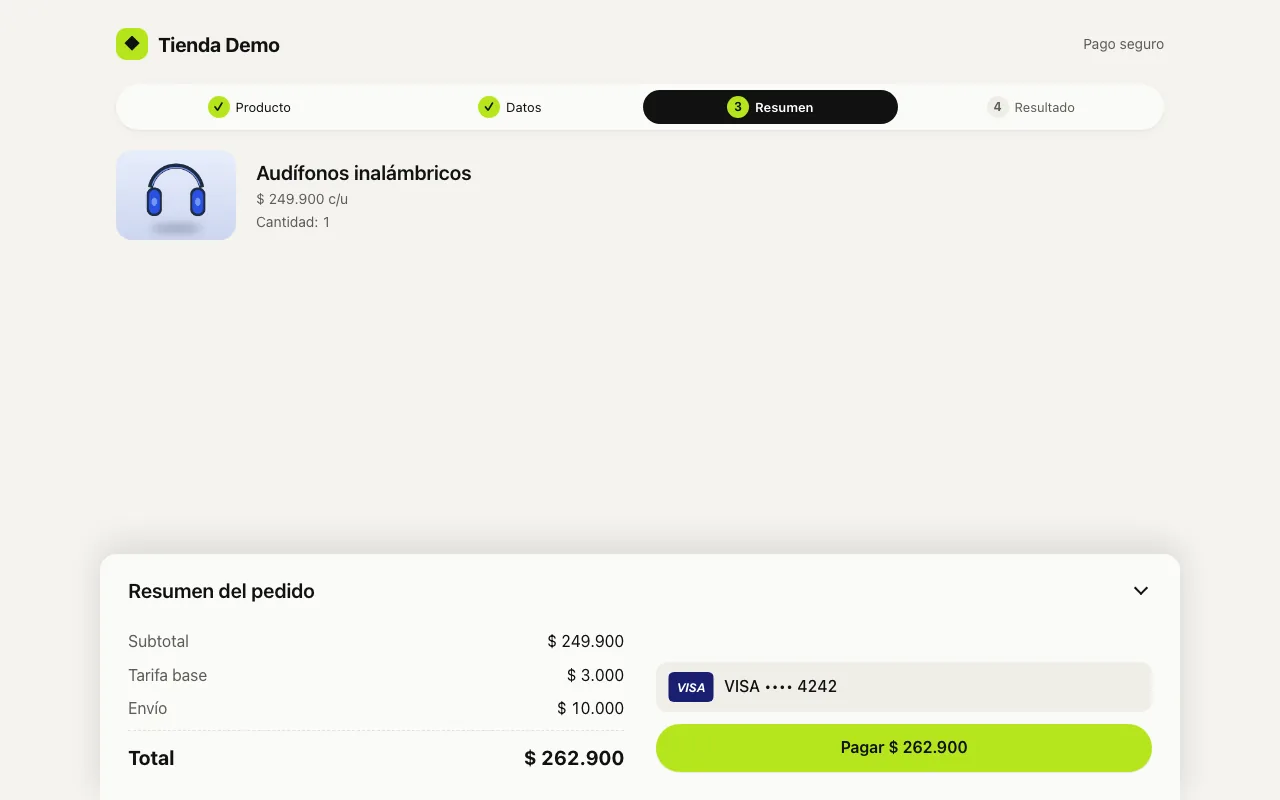
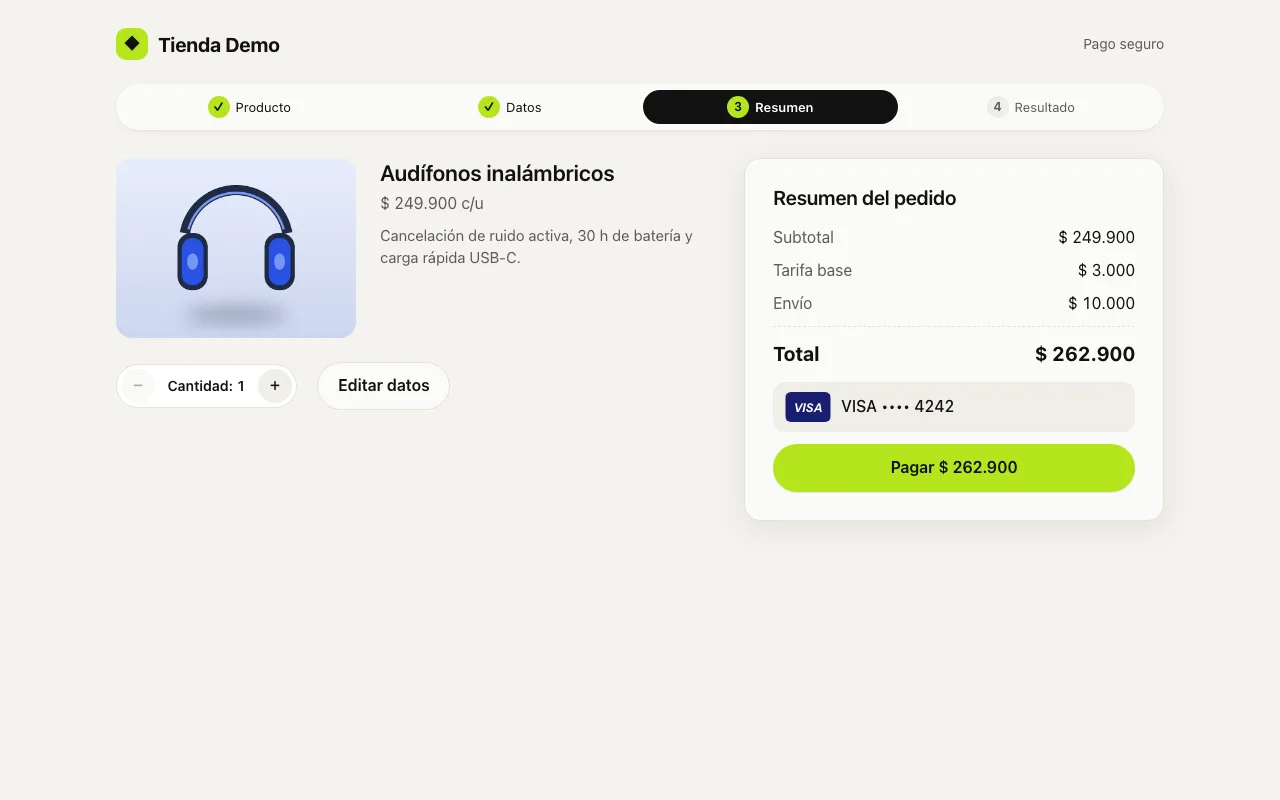
docs(readme): summary in two fixed layers, clearing after purchase, new screenshots, dashboard and 114/114 trace

diff --git a/README.md b/README.md
@@ -40,32 +40,33 @@ Interfaz mobile-first (desde iPhone SE 375×667) para una tienda de demostració
 
 - **Producto**: tarjetas de igual altura con badge de stock ("Quedan N", ámbar con 5 o menos, "Agotado" con el botón deshabilitado) y el botón **Pay with credit card** alineado abajo.
 - **Tarjeta y entrega**: modal con bloques "Tarjeta" y "Entrega", logo VISA/MasterCard dentro del input, errores bajo cada campo y **Continuar** fijo abajo con scroll interno.
-- **Resumen**: componente [Backdrop de Material](https://m2.material.io/components/backdrop) ([spec 009](specs/009-backdrop-resumen/spec.md)), igual en móvil y desktop. La **capa trasera** tiene el producto, el selector − n + y **Editar datos**. La **capa delantera** va anclada abajo, ocupa todo el ancho del contenedor, tiene esquinas superiores de 16 px y el subencabezado «Resumen del pedido», con el desglose, la tarjeta enmascarada y **Pagar**. El subencabezado (o su chevron) cambia la capa activa: con la trasera activa, la delantera muestra solo el subencabezado y el total, con un scrim suave. **Esc** vuelve a la delantera. En desktop no hay diálogo centrado: el mismo patrón vive en el contenedor de 1080 px y la delantera usa dos columnas.
+- **Resumen**: dos capas fijas inspiradas en el [Backdrop de Material](https://m2.material.io/components/backdrop) ([spec 009](specs/009-backdrop-resumen/spec.md), [ADR 0006](docs/adr/0006-resumen-dos-capas-fijas.md)). La **capa trasera** tiene el producto, el selector − n + y **Editar datos**. La **capa delantera** tiene el subencabezado «Resumen del pedido», el desglose, la tarjeta enmascarada y **Pagar**. Las dos se ven siempre: no hay toggle para colapsar ni scrim. En móvil, la trasera es compacta y va arriba, y la delantera es una hoja anclada abajo con esquinas superiores de 16 px. En desktop son dos columnas en el contenedor de 1080 px.
+- **Tras la compra** ([spec 011](specs/011-limpieza-tras-compra/spec.md)): si el pago se aprueba, al volver a la tienda se borran del estado y de `localStorage` los datos de entrega y todo el progreso del checkout. Si se rechaza, la entrega se conserva para **Intentar de nuevo**.
 - **Resultado**: tarjeta centrada con ícono de estado, referencia en una línea (monoespaciada, truncada al medio, con botón de copiar), total y tarjeta enmascarada.
 - **Vuelta a la tienda**: la tarjeta cuyo stock cambió se resalta y se anuncia a lectores de pantalla.
 - **Accesibilidad**: contraste WCAG AA en todo el texto (mínimo 5,1:1), `focus-visible` en todos los controles, roles y `aria-*` en modales, errores y estados (`aria-expanded`/`aria-controls` en el backdrop, con el foco siguiendo a la capa activa), transiciones de 150–220 ms que respetan `prefers-reduced-motion`. Sin fuentes ni recursos externos (la CSP de CloudFront solo permite `'self'`).
 
-Verificado con Playwright a 375×667 y 1280×800 (los E2E corren en Chromium, Firefox y WebKit): sin desbordamiento horizontal ni errores de consola, y **Pagar** visible sin scroll a 375×667. Las capturas son de la versión v1.1.0, con la API simulada.
+Verificado con Playwright a 375×667 y 1280×800 (los E2E corren en Chromium, Firefox y WebKit): sin desbordamiento horizontal ni errores de consola, y **Pagar** visible sin scroll a 375×667. Las capturas son con la API simulada: las del resumen, de v1.3.0; el resto, de v1.1.0 (esas pantallas no cambiaron).
 
 ### Móvil (375×667)
 
-| 1. Producto | 2. Tarjeta y entrega | 3. Resumen (capa delantera) | 4. Resultado | 5. Stock actualizado |
+| 1. Producto | 2. Tarjeta y entrega | 3. Resumen | 4. Resultado | 5. Stock actualizado |
 |---|---|---|---|---|
-| <img src="docs/screenshots/movil-1-producto.webp" width="170" alt="Pantalla de producto en móvil"> | <img src="docs/screenshots/movil-2-datos.webp" width="170" alt="Modal de tarjeta y entrega en móvil"> | <img src="docs/screenshots/movil-3-resumen.webp" width="170" alt="Resumen con la capa delantera activa: desglose, tarjeta enmascarada y Pagar anclados abajo"> | <img src="docs/screenshots/movil-4-aprobado.webp" width="170" alt="Pago aprobado en móvil"> | <img src="docs/screenshots/movil-5-stock-actualizado.webp" width="170" alt="Producto con el stock actualizado y resaltado en móvil"> |
+| <img src="docs/screenshots/movil-1-producto.webp" width="170" alt="Pantalla de producto en móvil"> | <img src="docs/screenshots/movil-2-datos.webp" width="170" alt="Modal de tarjeta y entrega en móvil"> | <img src="docs/screenshots/movil-3-resumen.webp" width="170" alt="Resumen en móvil: arriba el producto, la cantidad y Editar datos; abajo la hoja con el desglose, la tarjeta enmascarada y Pagar"> | <img src="docs/screenshots/movil-4-aprobado.webp" width="170" alt="Pago aprobado en móvil"> | <img src="docs/screenshots/movil-5-stock-actualizado.webp" width="170" alt="Producto con el stock actualizado y resaltado en móvil"> |
 
-| 3. Resumen (capa trasera) | Pago rechazado |
-|---|---|
-| <img src="docs/screenshots/movil-3-resumen-trasera.webp" width="170" alt="Resumen con la capa trasera activa: cantidad y Editar datos; la delantera abajo con scrim y total"> | <img src="docs/screenshots/movil-4-rechazado.webp" width="170" alt="Pago rechazado en móvil"> |
+| Pago rechazado |
+|---|
+| <img src="docs/screenshots/movil-4-rechazado.webp" width="170" alt="Pago rechazado en móvil"> |
 
 ### Desktop (1280×800)
 
 | Producto | Tarjeta y entrega |
 |---|---|
 | <img src="docs/screenshots/desktop-1-producto.webp" alt="Pantalla de producto en desktop"> | <img src="docs/screenshots/desktop-2-datos.webp" alt="Modal de tarjeta y entrega en desktop"> |
-| **Resumen: capa delantera** | **Resumen: capa trasera** |
-| <img src="docs/screenshots/desktop-3-resumen.webp" alt="Backdrop en desktop con la capa delantera activa en el contenedor centrado"> | <img src="docs/screenshots/desktop-3-resumen-trasera.webp" alt="Backdrop en desktop con la capa trasera activa"> |
-| **Resultado** | **Stock actualizado** |
-| <img src="docs/screenshots/desktop-4-aprobado.webp" alt="Pago aprobado en desktop"> | <img src="docs/screenshots/desktop-5-stock-actualizado.webp" alt="Producto con el stock actualizado en desktop"> |
+| **Resumen** | **Resultado** |
+| <img src="docs/screenshots/desktop-3-resumen.webp" alt="Resumen en desktop en dos columnas: producto, cantidad y Editar datos a la izquierda; desglose, tarjeta y Pagar a la derecha"> | <img src="docs/screenshots/desktop-4-aprobado.webp" alt="Pago aprobado en desktop"> |
+| **Stock actualizado** | |
+| <img src="docs/screenshots/desktop-5-stock-actualizado.webp" alt="Producto con el stock actualizado en desktop"> | |
 
 ## Arquitectura
 
@@ -336,8 +337,8 @@ Jest en los dos paquetes, con umbral **≥ 80 %** en sentencias, ramas, funcione
 
 | Paquete | Tests | Sentencias | Ramas | Funciones | Líneas |
 |---|---|---|---|---|---|
-| Backend (`backend/`) | 258 tests · 45 suites | **99.87 %** (784/785) | **92.34 %** (362/392) | **99.37 %** (158/159) | **100 %** (681/681) |
-| Frontend (`frontend/`) | 209 tests · 35 suites | **99.56 %** (683/686) | **95.04 %** (326/343) | **99.42 %** (173/174) | **100 %** (579/579) |
+| Backend (`backend/`) | 267 tests · 46 suites | **99.87 %** (791/792) | **92.46 %** (368/398) | **99.38 %** (161/162) | **100 %** (686/686) |
+| Frontend (`frontend/`) | 214 tests · 36 suites | **99.55 %** (665/668) | **94.87 %** (315/332) | **99.4 %** (167/168) | **100 %** (567/567) |
 
 ```bash
 cd backend && npm run test:cov
@@ -356,9 +357,12 @@ El flujo completo se prueba en **Chromium, Firefox y WebKit** (el motor de Safar
 | Tarjeta rechazada `4111…` | «Pago rechazado» con el motivo; el stock no cambia |
 | Recarga en el resumen | vuelve al formulario con la entrega conservada y la tarjeta vacía; se reingresa y se paga |
 | Recarga durante el pago | recupera el pago por su `Idempotency-Key`, sin un segundo `POST /transactions` |
-| Backdrop a 375×667 y 1280×800 | delantera anclada abajo a todo el ancho del contenedor, esquinas de 16 px, **Pagar** visible sin scroll, sin diálogo |
-| Cambio de capa | el subencabezado alterna las capas (`aria-expanded`, foco); **Esc** y el scrim suben la delantera; la cantidad recotiza el total |
+| Resumen a 375×667 | trasera compacta arriba; delantera anclada abajo a todo el ancho, esquinas de 16 px; **Pagar** y **Editar datos** visibles sin scroll |
+| Resumen a 1280×800 | dos columnas alineadas arriba en el contenedor centrado, sin diálogo ni hueco, sin scroll |
+| Capas fijas | sin toggle, `aria-expanded` ni scrim; foco al subencabezado; Tab recorre trasera → **Pagar**; la cantidad recotiza a la vista |
 | `prefers-reduced-motion` | las capas no se animan |
+| Tras una compra aprobada | `localStorage` sin entrega, tarjeta ni transacción; la siguiente compra empieza vacía, también tras recargar |
+| Tras un rechazo | **Intentar de nuevo** y **Volver a la tienda** conservan la entrega; la tarjeta se vuelve a pedir |
 
 En todos: sin desbordamiento horizontal, sin errores en la consola y sin el número de tarjeta ni el CVC en `localStorage`.
 
@@ -367,7 +371,7 @@ En todos: sin desbordamiento horizontal, sin errores en la consola y sin el núm
 ```bash
 npm install --prefix frontend      # instala @playwright/test con el resto de dependencias
 npm run e2e:install                # descarga Chromium, Firefox y WebKit (unos cientos de MB, una sola vez; en Linux instala también las librerías del sistema)
-npm run e2e                        # 9 tests × 3 navegadores, sin ventana (~20 s); construye y levanta el front solo
+npm run e2e                        # 12 tests × 3 navegadores, sin ventana (~20 s); construye y levanta el front solo
 npm run e2e:headed                 # solo Chromium, con ventana y 500 ms entre acciones para verlo en vivo
 E2E_SLOWMO=1000 npm run e2e:headed # más lento todavía
 npm run e2e:ui                     # modo UI de Playwright: elegir tests, ver cada paso, el DOM y la red
@@ -381,7 +385,7 @@ En la CI, el job **`e2e`** corre en paralelo con `verify` en cada PR y push a `d
 
 > Los E2E encontraron un bug que los tests de Jest no veían: Firefox y Safari cortan el `fetch` en vuelo al recargar, el pago se guardaba como fallido y, al volver, la app pedía la tarjeta en vez de recuperar el pago. Ahora también se busca por `Idempotency-Key` en ese caso (AC-005-05).
 
-### Trazabilidad: 105/105 criterios con test
+### Trazabilidad: 114/114 criterios con test
 
 Cada criterio de aceptación `AC-NNN-YY` de `specs/*/spec.md` tiene al menos un test con ese ID en el nombre (`it('AC-004-12 …')`). [`scripts/trace.ts`](scripts/trace.ts) arma la matriz y falla si falta alguno; la CI la corre con `--shipped`.
 
@@ -395,9 +399,10 @@ Cada criterio de aceptación `AC-NNN-YY` de `specs/*/spec.md` tiene al menos un 
 | [006 · despliegue](specs/006-despliegue/spec.md) | Lambda + HTTP API, S3 + CloudFront (OAC), HTTPS, headers, CORS | 10 | ✅ 10 |
 | [007 · E2E con Playwright](specs/007-e2e-playwright/spec.md) | flujo completo en Chromium, Firefox y WebKit con la API simulada, job `e2e` en la CI | 6 | ✅ 6 |
 | [008 · headers de seguridad](specs/008-headers-seguridad/spec.md) | COOP, CORP y Permissions-Policy en CloudFront tras el HTTP Observatory | 3 | ✅ 3 |
-| [009 · backdrop del resumen](specs/009-backdrop-resumen/spec.md) | paso Resumen con el patrón Backdrop de Material, accesibilidad y reduced motion | 5 | ✅ 5 |
+| [009 · resumen en dos capas](specs/009-backdrop-resumen/spec.md) | paso Resumen en dos capas fijas (móvil y desktop), accesibilidad y reduced motion | 6 | ✅ 6 |
 | [010 · observabilidad](specs/010-observabilidad/spec.md) | logs JSON con requestId, evento `payment.finalized`, dashboard, alarmas y X-Ray | 14 | ✅ 14 |
-| **Total** | | **105** | **✅ 105/105** |
+| [011 · limpieza tras la compra](specs/011-limpieza-tras-compra/spec.md) | borrar entrega y progreso tras APPROVED; conservar la entrega tras DECLINED/ERROR | 5 | ✅ 5 |
+| **Total** | | **114** | **✅ 114/114** |
 
 ```bash
 npx tsx scripts/trace.ts             # matriz completa (todas las specs)
@@ -462,9 +467,12 @@ npx tsx scripts/trace.ts --spec 004  # una spec
 | AC-004-20 | frontend/src/features/payment/paymentSlice.test.ts | ✅ |
 | AC-004-21 | backend/src/application/transactions/create-transaction.use-case.spec.ts<br>backend/src/infrastructure/prisma/prisma-transaction.repository.spec.ts | ✅ |
 | AC-005-01 | frontend/src/app/resumeAfterReload.test.tsx | ✅ |
+| AC-005-01 | frontend/src/app/resumeAfterReload.test.tsx | ✅ |
 | AC-005-02 | frontend/src/app/resumeAfterReload.test.tsx | ✅ |
 | AC-005-03 | frontend/src/app/resumeAfterReload.test.tsx | ✅ |
 | AC-005-04 | frontend/src/app/resumeAfterReload.test.tsx | ✅ |
+| AC-005-04 | frontend/src/app/resumeAfterReload.test.tsx | ✅ |
+| AC-005-05 | frontend/src/app/recoverPayment.test.tsx | ✅ |
 | AC-005-05 | frontend/src/app/recoverPayment.test.tsx | ✅ |
 | AC-005-06 | frontend/src/app/noCardLeak.test.tsx | ✅ |
 | AC-005-07 | frontend/src/app/persistence.test.ts | ✅ |
@@ -500,6 +508,26 @@ npx tsx scripts/trace.ts --spec 004  # una spec
 | AC-009-03 | frontend/e2e/backdrop.spec.ts<br>frontend/src/features/payment/SummaryBackdrop.test.tsx | ✅ |
 | AC-009-04 | frontend/e2e/backdrop.spec.ts | ✅ |
 | AC-009-05 | frontend/e2e/backdrop.spec.ts | ✅ |
+| AC-009-06 | frontend/e2e/backdrop.spec.ts | ✅ |
+| AC-010-01 | backend/src/infrastructure/observability/request-logging.middleware.spec.ts<br>backend/src/infrastructure/observability/request-logging.spec.ts | ✅ |
+| AC-010-02 | backend/src/infrastructure/observability/request-logging.spec.ts | ✅ |
+| AC-010-03 | backend/src/infrastructure/observability/request-logging.spec.ts | ✅ |
+| AC-010-04 | backend/src/infrastructure/observability/json-logger.spec.ts<br>backend/src/infrastructure/observability/request-logging.spec.ts | ✅ |
+| AC-010-05 | backend/src/infrastructure/observability/json-logger.spec.ts<br>backend/src/lambda.spec.ts | ✅ |
+| AC-010-06 | backend/src/infrastructure/observability/card-leak-stdout.spec.ts | ✅ |
+| AC-010-07 | backend/src/infrastructure/observability/json-logger.spec.ts<br>backend/src/infrastructure/observability/redact.spec.ts | ✅ |
+| AC-010-08 | backend/src/application/transactions/payment-events.spec.ts<br>backend/src/infrastructure/observability/log-payment-events.spec.ts | ✅ |
+| AC-010-09 | backend/src/application/transactions/payment-events.spec.ts | ✅ |
+| AC-010-10 | backend/src/infrastructure/observability/request-logging.spec.ts | ✅ |
+| AC-010-11 | backend/src/infrastructure/deploy/template.spec.ts | ✅ |
+| AC-010-12 | backend/src/infrastructure/deploy/template.spec.ts | ✅ |
+| AC-010-13 | backend/src/infrastructure/deploy/template.spec.ts | ✅ |
+| AC-010-14 | backend/src/infrastructure/deploy/template.spec.ts | ✅ |
+| AC-011-01 | frontend/src/features/payment/ResultScreen.test.tsx | ✅ |
+| AC-011-02 | frontend/e2e/clear-after-purchase.spec.ts<br>frontend/src/app/clearAfterPurchase.test.tsx | ✅ |
+| AC-011-03 | frontend/e2e/clear-after-purchase.spec.ts<br>frontend/src/app/clearAfterPurchase.test.tsx | ✅ |
+| AC-011-04 | frontend/e2e/clear-after-purchase.spec.ts<br>frontend/src/features/payment/ResultScreen.test.tsx | ✅ |
+| AC-011-05 | frontend/e2e/clear-after-purchase.spec.ts<br>frontend/src/app/clearAfterPurchase.test.tsx<br>frontend/src/features/payment/ResultScreen.test.tsx | ✅ |
 
 </details>
 
@@ -577,7 +605,7 @@ flowchart LR
 - **La alarma de latencia p95 salta a 15 s.** `POST /transactions` espera a la pasarela hasta unos 25 s y un pago normal tarda unos 11 s. Con un umbral más bajo, la alarma saltaría con tráfico sano. Es un parámetro (`AlarmLatencyP95Ms`).
 - **Las alarmas no envían notificaciones.** No hay SNS, email ni Slack: se ven en el dashboard y en la consola. Para añadirlas bastaría un topic SNS y `AlarmActions`.
 
-**Dashboard en producción** (2026-11-12, tras desplegar v1.2.1 por CD). Las imágenes salen de los widgets del dashboard, exportados con `aws cloudwatch get-metric-widget-image`. El tráfico es el de la verificación: un pago aprobado (`4242…`), uno rechazado (`4111…`), lecturas, varios 404/400 provocados y el pico de latencia de los pagos, que esperan a la pasarela unos 8–15 s:
+**Dashboard en producción** (2026-11-12, 01:45 UTC). Las imágenes salen de los widgets del dashboard, exportados con `aws cloudwatch get-metric-widget-image` (series de las últimas 2 h, en UTC). El tráfico es el de las verificaciones de v1.2.1 y de la release v1.3.0. El widget de pagos cuenta los últimos 15 minutos: un pago aprobado (`4242…`) y uno rechazado (`4111…`), hechos desde la app en producción. El p95 de latencia (~14 s) es el de esos pagos, que esperan a la pasarela, y queda bajo la alarma de 15 s:
 
 ![Dashboard de CloudWatch: peticiones, 4xx/5xx, latencia p50/p95 con la línea de la alarma, pagos por estado, errores y duración de la Lambda](docs/screenshots/observabilidad-dashboard.webp)
 
